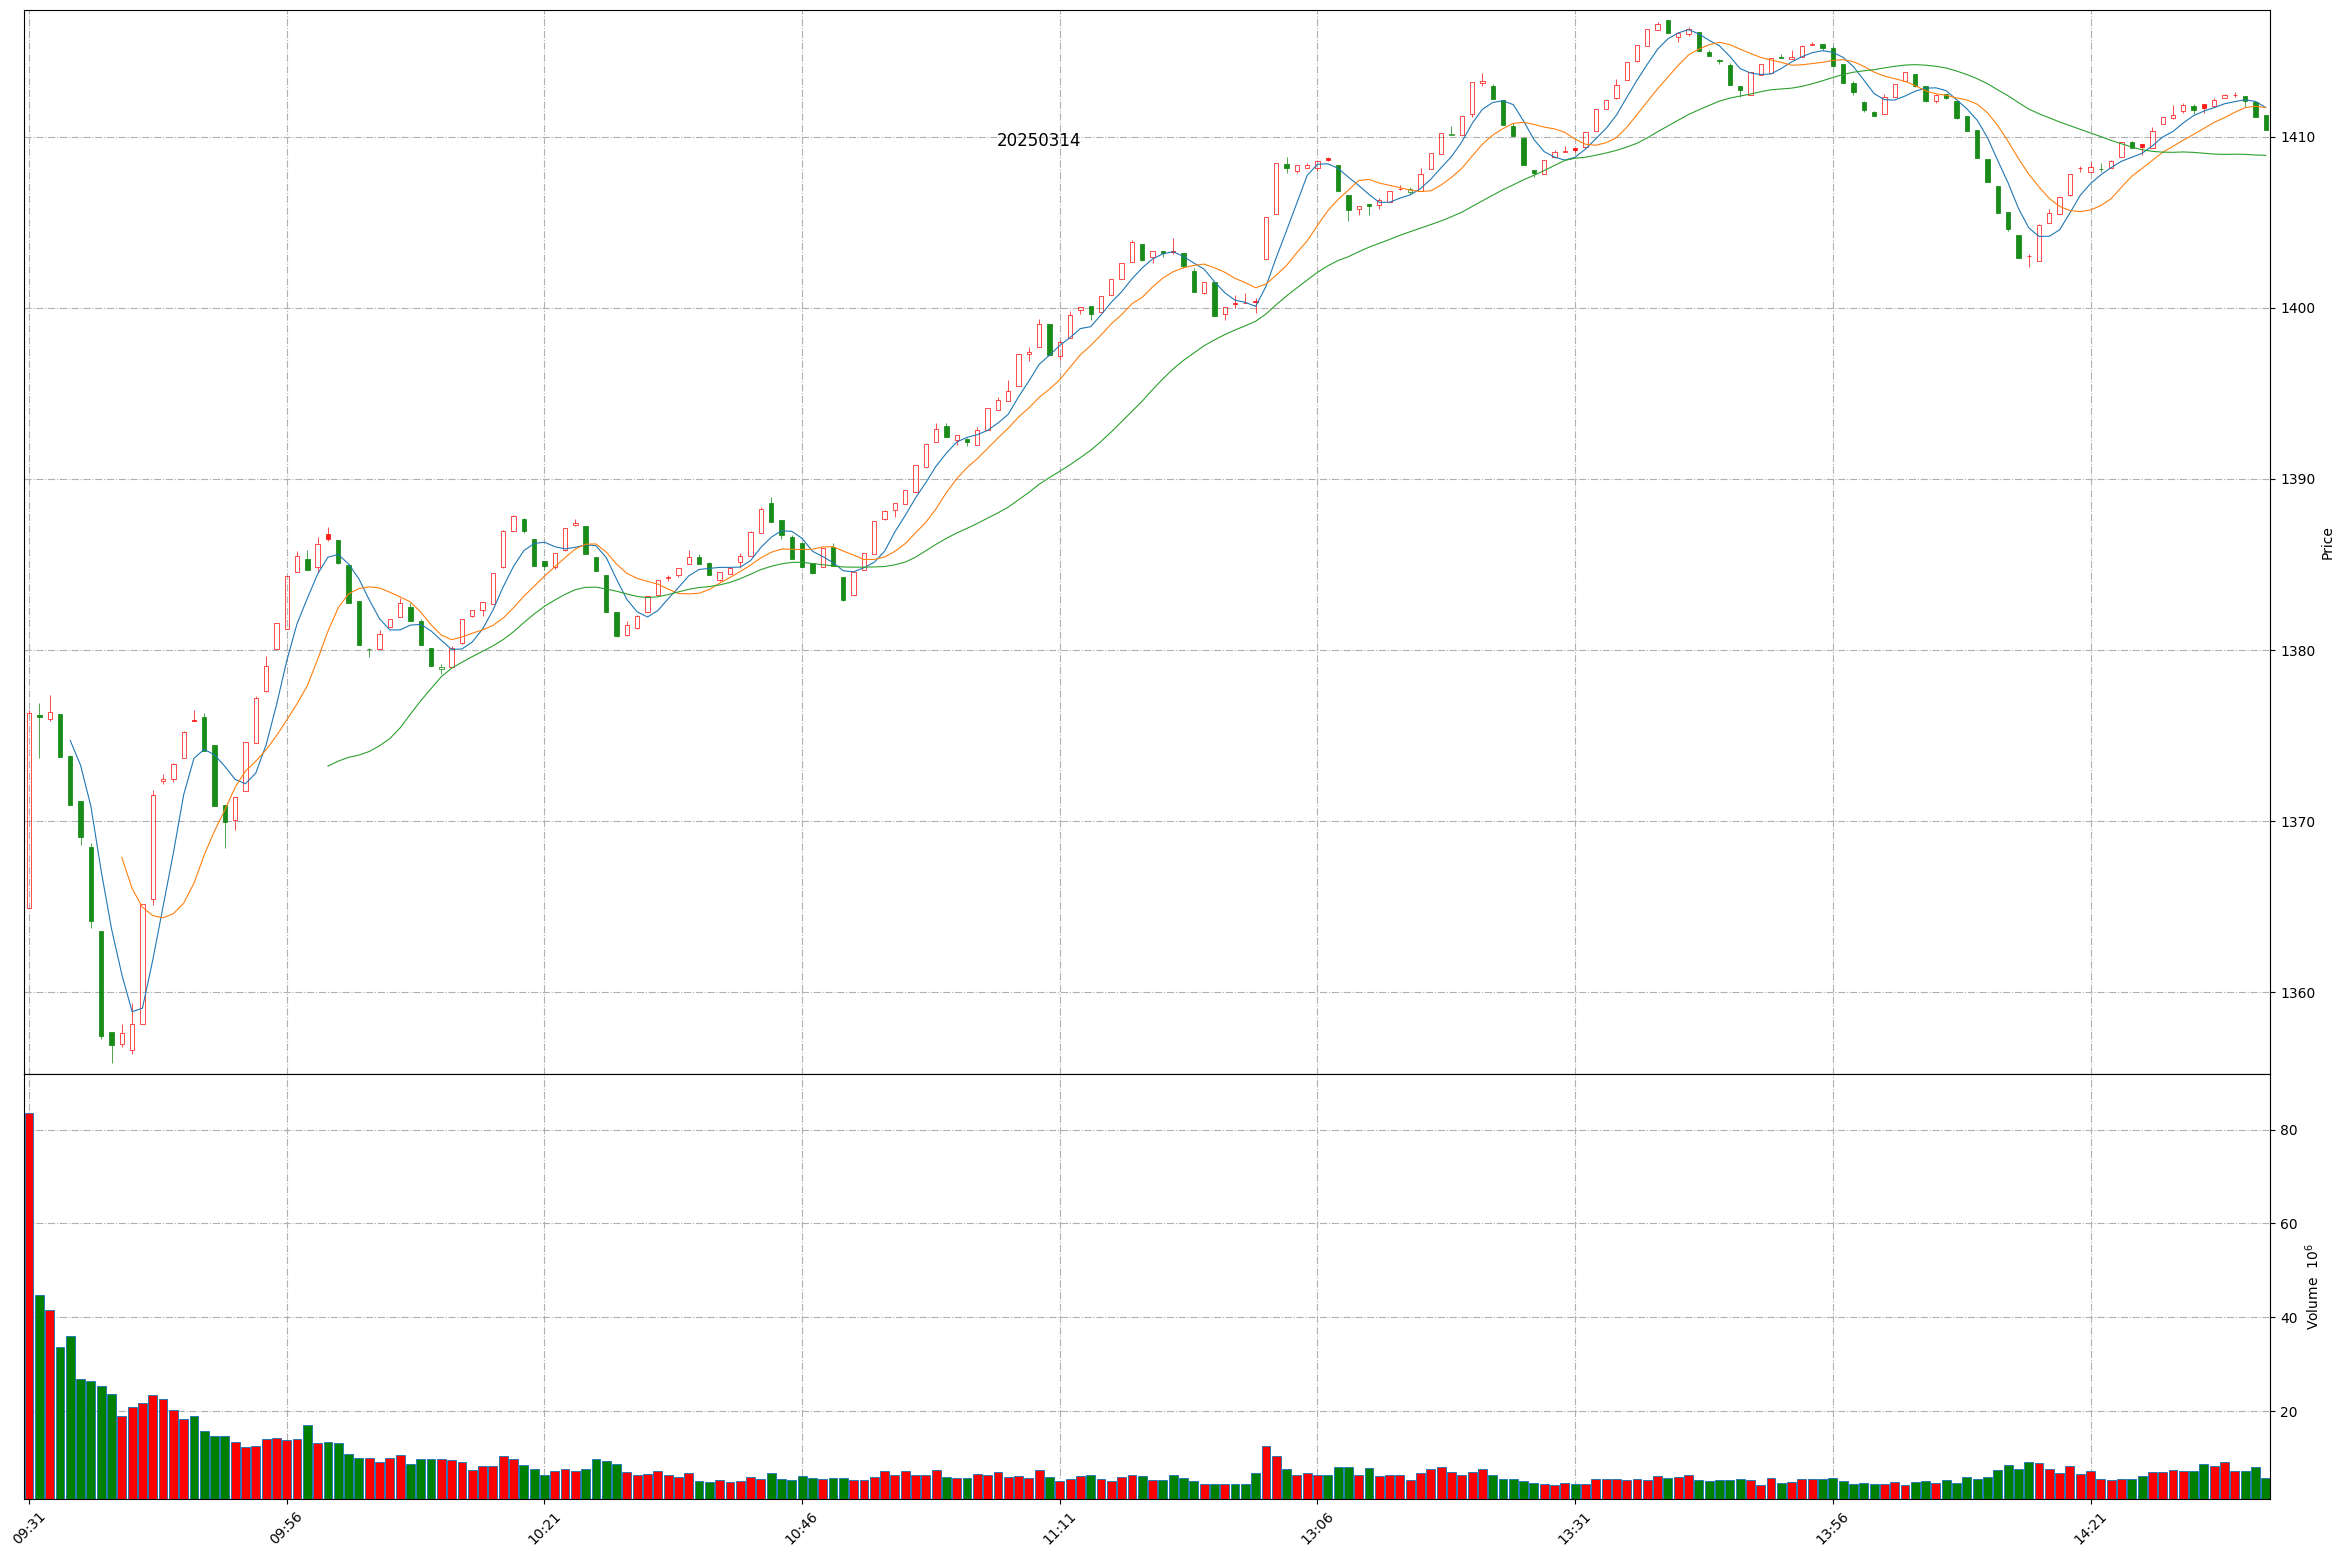
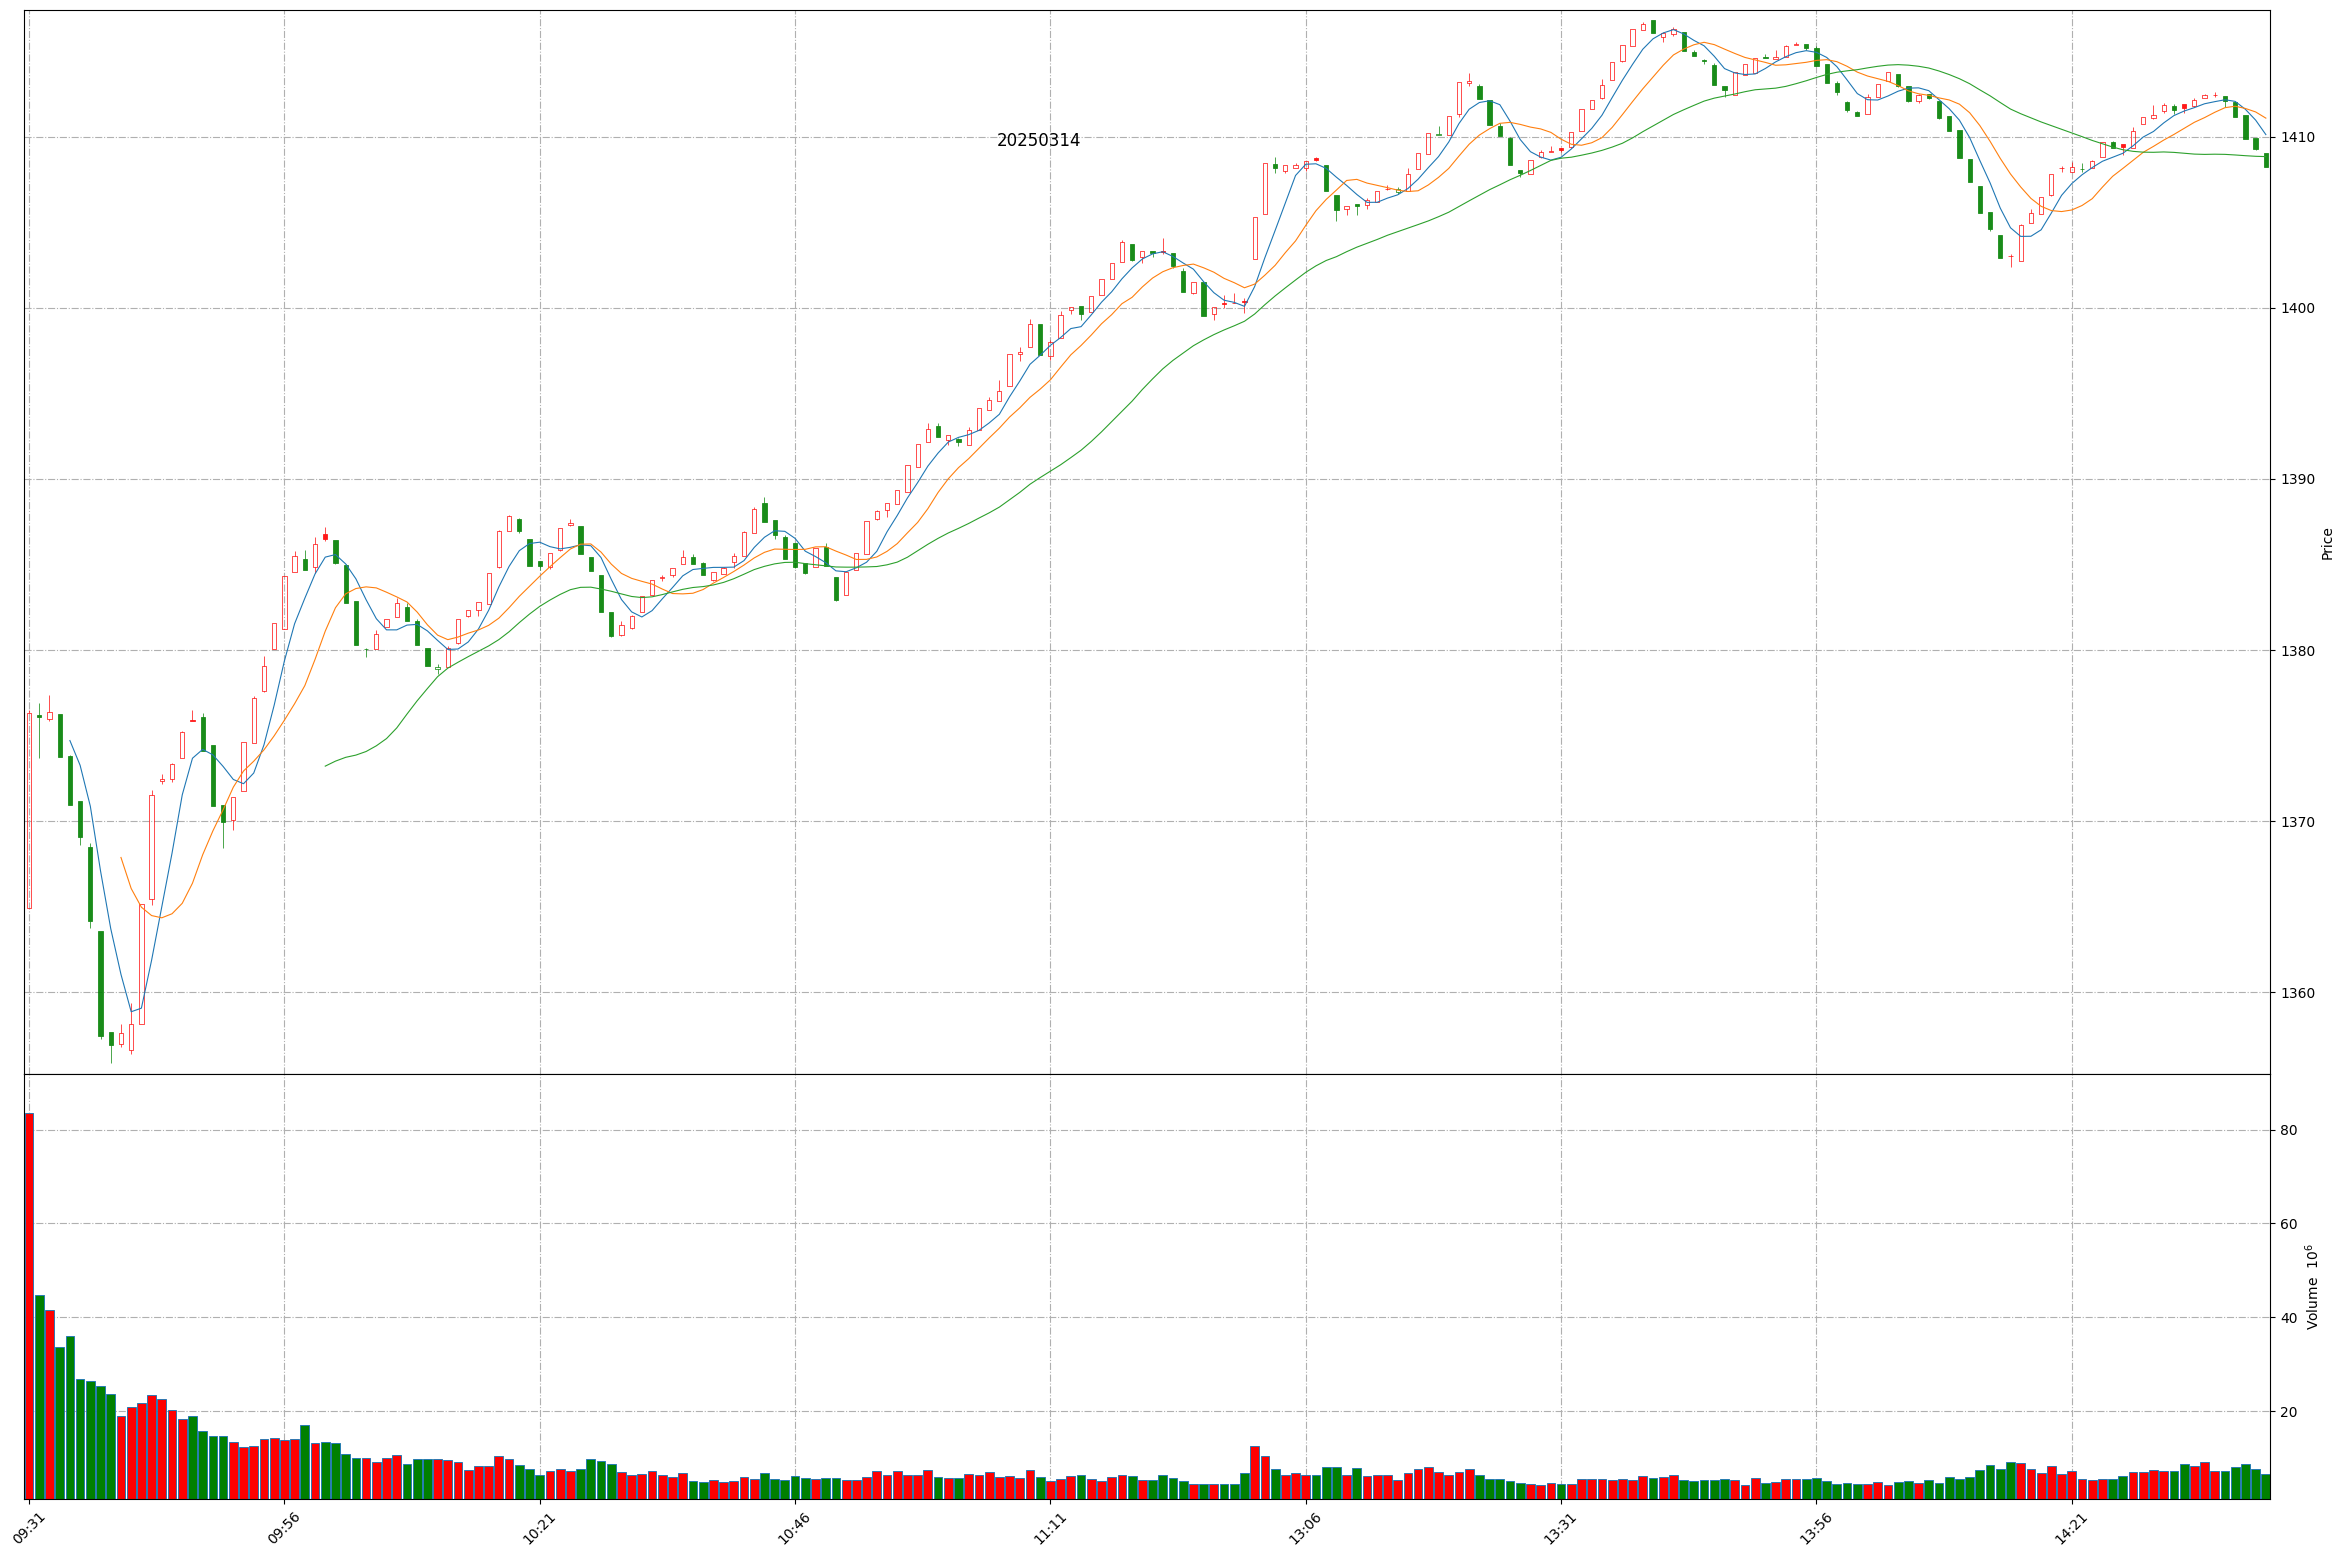
Github action update at 2025-03-14 14:40:04.

diff --git a/README.md b/README.md
@@ -1,11 +1,11 @@
 
 # Daily-A-share-market-quotes 每日 A 股指数（5min 更新）- 20250314
 
-### 上证指数 20250314 14:37
+### 上证指数 20250314 14:40
 ![](./fig/2025/3/20250314-sh000001.png)
 
-### 深证成指 20250314 14:37
+### 深证成指 20250314 14:40
 ![](./fig/2025/3/20250314-sz399001.png)
 
-### 北证50 20250314 14:37
+### 北证50 20250314 14:40
 ![](./fig/2025/3/20250314-bj899050.png)
